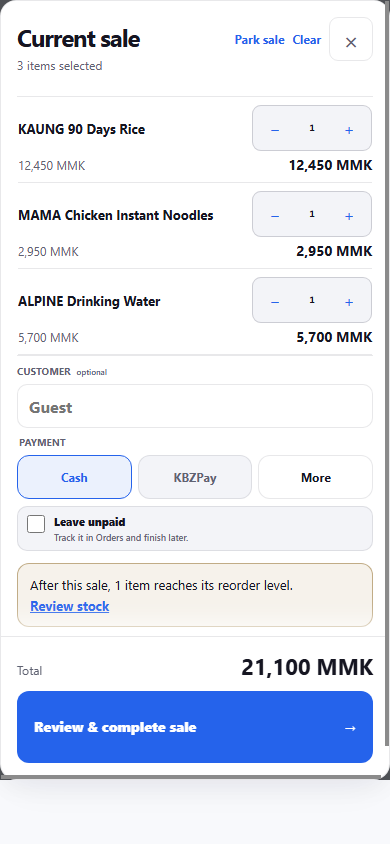
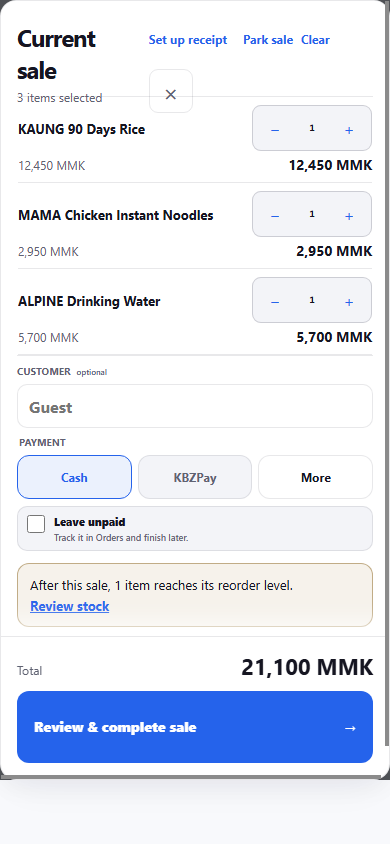
Update Shop website captures after receipt layout fix

Changed region(s): [[0.0308, 0.0308, 0.8308, 0.1232], [0.8923, 0.0308, 0.9231, 0.0616], [0.4308, 0.0924, 0.4615, 0.1232]]

diff --git a/docs/SHOP-LANGUAGE-AND-PREMIUM-GAP-2026-10-18.md b/docs/SHOP-LANGUAGE-AND-PREMIUM-GAP-2026-10-18.md
@@ -34,7 +34,7 @@ The current `uiText` phrase table is an engineering draft with English fallback.
 
 The Shop storage-warning pass found a visible accessibility defect: the device-only banner used a selector for a state the component never rendered, and its link measured 4.44:1 on the urgent tint. The selector now matches the actual `device-only` state and a darker link token clears the 4.5:1 light-surface contract. This is local CSS and contract evidence, not a real-device readability result.
 
-The website candidate's twelve public Shop captures were refreshed from clean source commit `50b9f644a78e6c3f1b3412796db4d6a4aab26260` (showroom tree `37b1767f536521631fb0526c5e408b23b174d4b2`). The capture harness generated 22 desktop/tablet/phone and internal-workspace frames; only Shop images enter the public build. It completed one synthetic counter sale and blocked every external request. `publicationReady:false` remains in the receipt: these images prove what the local components drew with sample data, not deployed behavior or customer value. The mobile Orders device-only advisory now fits on one row; the full-storage interruption remains prominent. Visual review still finds initial-letter product thumbnails on Today and no merchant photography, which are presentation gaps before a premium claim. The gallery CI inventory, exact-text release guards and workspace-storage registry were re-baselined to current source; a local isolated Python runtime probe still cannot run because Pillow is absent from the workstation interpreter. Hosted CI and reviewer approval remain separate gates.
+The website candidate's twelve public Shop captures were refreshed from clean source commit `7319dd168d668ffd7839117c84a7a8b2352037c4` (showroom tree `1d8eb6f7a0ad4aace4d2714a1883ccc1555b461d`). The capture harness generated 22 desktop/tablet/phone and internal-workspace frames; only Shop images enter the public build. It completed one synthetic counter sale and blocked every external request. `publicationReady:false` remains in the receipt: these images prove what the local components drew with sample data, not deployed behavior or customer value. The mobile Orders device-only advisory now fits on one row; the full-storage interruption remains prominent. Visual review still finds initial-letter product thumbnails on Today and no merchant photography, which are presentation gaps before a premium claim. The gallery CI inventory, exact-text release guards and workspace-storage registry were re-baselined to current source; a local isolated Python runtime probe still cannot run because Pillow is absent from the workstation interpreter. Hosted CI and reviewer approval remain separate gates.
 
 ### 19 October review follow-up
 
@@ -42,7 +42,7 @@ Codex's PR review identified six concrete defects. Local fixes now keep a newer 
 
 The first cloud rerun found a React lint error in the back/forward fix. Shop now derives a fresh requested business choice from the URL during render while preserving an explicit in-page choice when the request is cleared; targeted lint, onboarding checks and typecheck pass locally. Counter receipt setup and the printer test now sit with the sale actions instead of appearing as an orphan link below the cards. Orders payment, refund and cancel actions use the selected language, still pending native-language review. These targeted improvements do not make the entire Shop workflow a full Burmese release.
 
-The Shop public page now lays out all four captured workflows as a static sequence with desktop, tablet and phone shown together. The figure's browser-default 40px side margins had reduced a 560px gallery to a 435px desktop image; the corrected margin measured 515px in a 673px local browser viewport with no horizontal overflow. This makes the samples easier to examine and removes the previous next/previous buttons. A clean recapture at `50b9f644a` produced 22 frames with no external requests and one completed synthetic sale; twelve Shop images were promoted, with only the three counter image bytes changing. Provenance still classifies every image as local component/synthetic, `publicationReady:false`.
+The Shop public page now lays out all four captured workflows as a static sequence with desktop, tablet and phone shown together. The figure's browser-default 40px side margins had reduced a 560px gallery to a 435px desktop image; the corrected margin measured 515px in a 673px local browser viewport with no horizontal overflow. This makes the samples easier to examine and removes the previous next/previous buttons. A clean recapture at `7319dd168` produced 22 frames with no external requests and one completed synthetic sale; twelve Shop images were promoted. Provenance still classifies every image as local component/synthetic, `publicationReady:false`.
 
 ## Sequenced work to the 20 October decision
 
